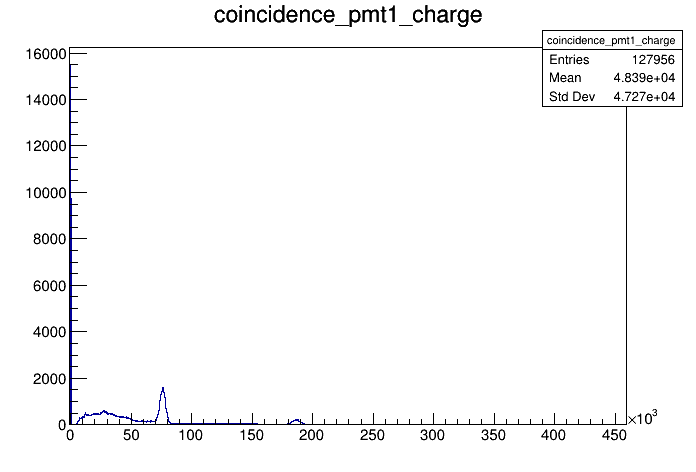
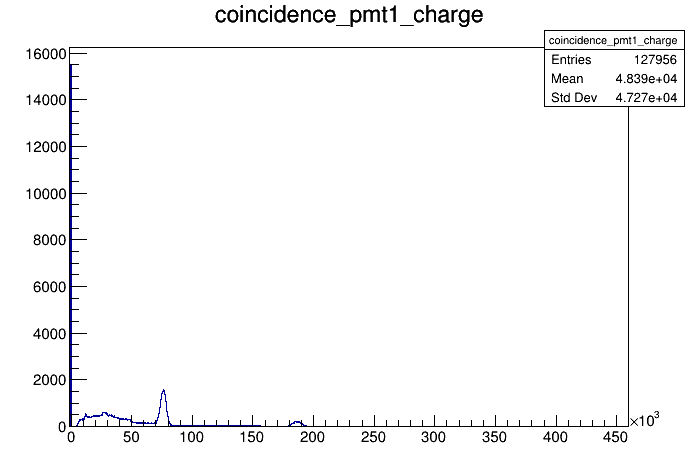
fix strange events

Changed region(s): [[0.0302, 0.0593, 0.9655, 0.9492], [0.5733, 0.0, 0.694, 0.0593], [0.3017, 0.0, 0.4526, 0.0593]]

diff --git a/tools.cpp b/tools.cpp
@@ -53,14 +53,18 @@ vector <TH1F*> make_histo(string path,string name){
     
     vector <float> charge (v.size());
     vector <float> amp (v.size());
-    float h, min, charge_max=FLT_MIN, amp_max=FLT_MIN, charge_min=FLT_MAX, amp_min=FLT_MAX;
-
+    float h, min,min_idx,min_h,  charge_max=FLT_MIN, amp_max=FLT_MIN, charge_min=FLT_MAX, amp_min=FLT_MAX;
+    vector <float> idx_strange;
     for (long unsigned int i=0; i<v.size(); i++){
         h = 0;
-        for (int j=0; j<200; j++){
+        for (int j=0; j<100; j++){
             h += v[i][j] / 200;
+            if (v[i][j]<14600){
+                cout << "valore piccolo: "<< v[i][j] <<endl;
+                idx_strange.push_back(i);
+            }
         }
-        for (int j=400; j<900; j++){
+        for (int j=0; j<1000; j++){
             charge[i] += h-v[i][j];
         }
         min =*min_element(v[i].begin(), v[i].end());
@@ -68,24 +72,24 @@ vector <TH1F*> make_histo(string path,string name){
         charge_max = (charge[i]>charge_max) ? charge[i] : charge_max;
         amp_max = (amp[i]>amp_max) ? amp[i] : amp_max;
         charge_min = (charge[i]<charge_min) ? charge[i] : charge_min;
-        amp_min = (amp[i]<amp_min) ? amp[i] : amp_min;        
+        if (charge[i]<-400000){
+            min_idx=i;
+            min_h=h;
+        }
+        amp_min = (amp[i]<amp_min) ? amp[i] : amp_min;      
     }
-    TH1F *histo_charge=  new TH1F(&(name + "_charge")[0],&(name + "_charge")[0], 1300, -1000, static_cast<int>(charge_max));
-    TH1F *histo_amp=  new TH1F(&(name + "_amp")[0],&(name + "_amp")[0], 1400, 0, static_cast<int>(amp_max));
+    TH1F *histo_charge=  new TH1F(&(name + "_charge")[0],&(name + "_charge")[0], 1300, static_cast<int>(charge_min), static_cast<int>(charge_max));
+    TH1F *histo_amp=  new TH1F(&(name + "_amp")[0],&(name + "_amp")[0], 1400,  static_cast<int>(amp_min), static_cast<int>(amp_max));
     for (long unsigned int i=0; i< charge.size(); i++){
-        histo_charge->Fill(charge[i]);
-        histo_amp->Fill(amp[i]);
+        if (find(idx_strange.begin(), idx_strange.end(), i)== idx_strange.end()){
+            histo_charge->Fill(charge[i]);
+            histo_amp->Fill(amp[i]);
+        }
     }
     histo_charge->SetName(&(name + "_charge")[0]);
     histo_amp->SetName(&(name + "_amp")[0]);
     histos.push_back(histo_charge);
     histos.push_back(histo_amp);
-
-    TCanvas *c_wave = new TCanvas(&(name + "_wave")[0], &(name + "_wave")[0]);
-    TGraph* gr = new TGraph(t.size(), &t[0], &v[1][0]);
-    gr->SetNameTitle(&(name + "_wave")[0], &(name + "_wave")[0]);
-    gr->Draw("AP*");
-    c_wave->SaveAs(&("waveform/" + name + "_wave.png")[0]);
 
     TCanvas *c_charge = new TCanvas(&(name + "_charge")[0] , &(name + "_charge")[0]);
     histo_charge->Draw();
@@ -94,7 +98,16 @@ vector <TH1F*> make_histo(string path,string name){
     TCanvas *c_amp = new TCanvas(&(name + "_amp")[0], &(name + "_amp")[0]);
     histo_amp->Draw();
     c_amp->SaveAs(&("plots/" + name + "_amp.png")[0]);
-    
+
+    cout << "charge min "<<charge_min <<endl;
+        cout << "charge min h "<<min_h <<endl;
+
+    TCanvas *c_wave = new TCanvas(&(name + "_wave")[0], &(name + "_wave")[0]);
+    TGraph* gr = new TGraph(t.size(), &t[0], &v[min_idx][0]);
+    gr->SetNameTitle(&(name + "_wave")[0], &(name + "_wave")[0]);
+    gr->Draw("AP*");
+    c_wave->SaveAs(&("waveform/" + name + "_wave.png")[0]);
+
     return histos;
 }
 

diff --git a/main_func.cpp b/main_func.cpp
@@ -22,9 +22,17 @@ using namespace std;
 void main_func (){
     gROOT->SetBatch(kFALSE);
     vector <TH1F*> histos;
-    TFile *outfile= new TFile("histograms_coincidence.root", "RECREATE");
-    list <string> names ={"coincidence_pmt1_ext",
-                        "coincidence_pmt2_ext"/*,
+    TFile *outfile= new TFile("histograms/histograms_NA_700_run2.root", "RECREATE");
+    list <string> names ={"pmt1_NA_e6_700_or_run2",
+                        "pmt2_NA_e6_700_or_run2"
+                        /*"coincidence_pmt1_ext_run2",
+                        "coincidence_pmt2_ext_run2",
+                        "pmt1_NA_e6_700_or",
+                        "pmt2_NA_e6_700_or"
+                        "coincidence_pmt1_ext",
+                        "coincidence_pmt2_ext",
+                        "coincidence_pmt1"
+                        "coincidence_pmt2"
                         "pmt1_NA_e6_100_690",
                         "pmt2_NA_e6_100_851",
                         "pmt1_co_100_690", 
@@ -33,7 +41,7 @@ void main_func (){
                         "pmt2_na_100_851", 
                         "pmt1_cs_100_690", 
                         "pmt2_cs_100_851",
-                        //"pmt1_bkg_100", 
+                        "pmt1_bkg_100_690", 
                         "pmt2_bkg_100_851", 
                         "pmt1_null", 
                         "pmt2_null"*/};

diff --git a/scatter.cpp b/scatter.cpp
@@ -76,7 +76,7 @@ void scatter(){
     TGraph* gr = new TGraph(charge[0].size(),&charge[0][0],&charge[1][0]);
     gr->SetMarkerStyle(1);
     gr->Draw("AP");
-    c_scatter->SaveAs("scatter_plot_ext.png");
+    c_scatter->SaveAs("images/scatter_plot_ext.png");
 }
 
 

diff --git a/fit_lin.cpp b/fit_lin.cpp
@@ -16,6 +16,6 @@ void fit_lin(){
     gr->Fit("linear");
     linear->Draw("SAME");
     gStyle->SetOptFit(111);
-    c_fit_lin->SaveAs("linear_fit.png");
+    c_fit_lin->SaveAs("images/linear_fit.png");
 }
 
